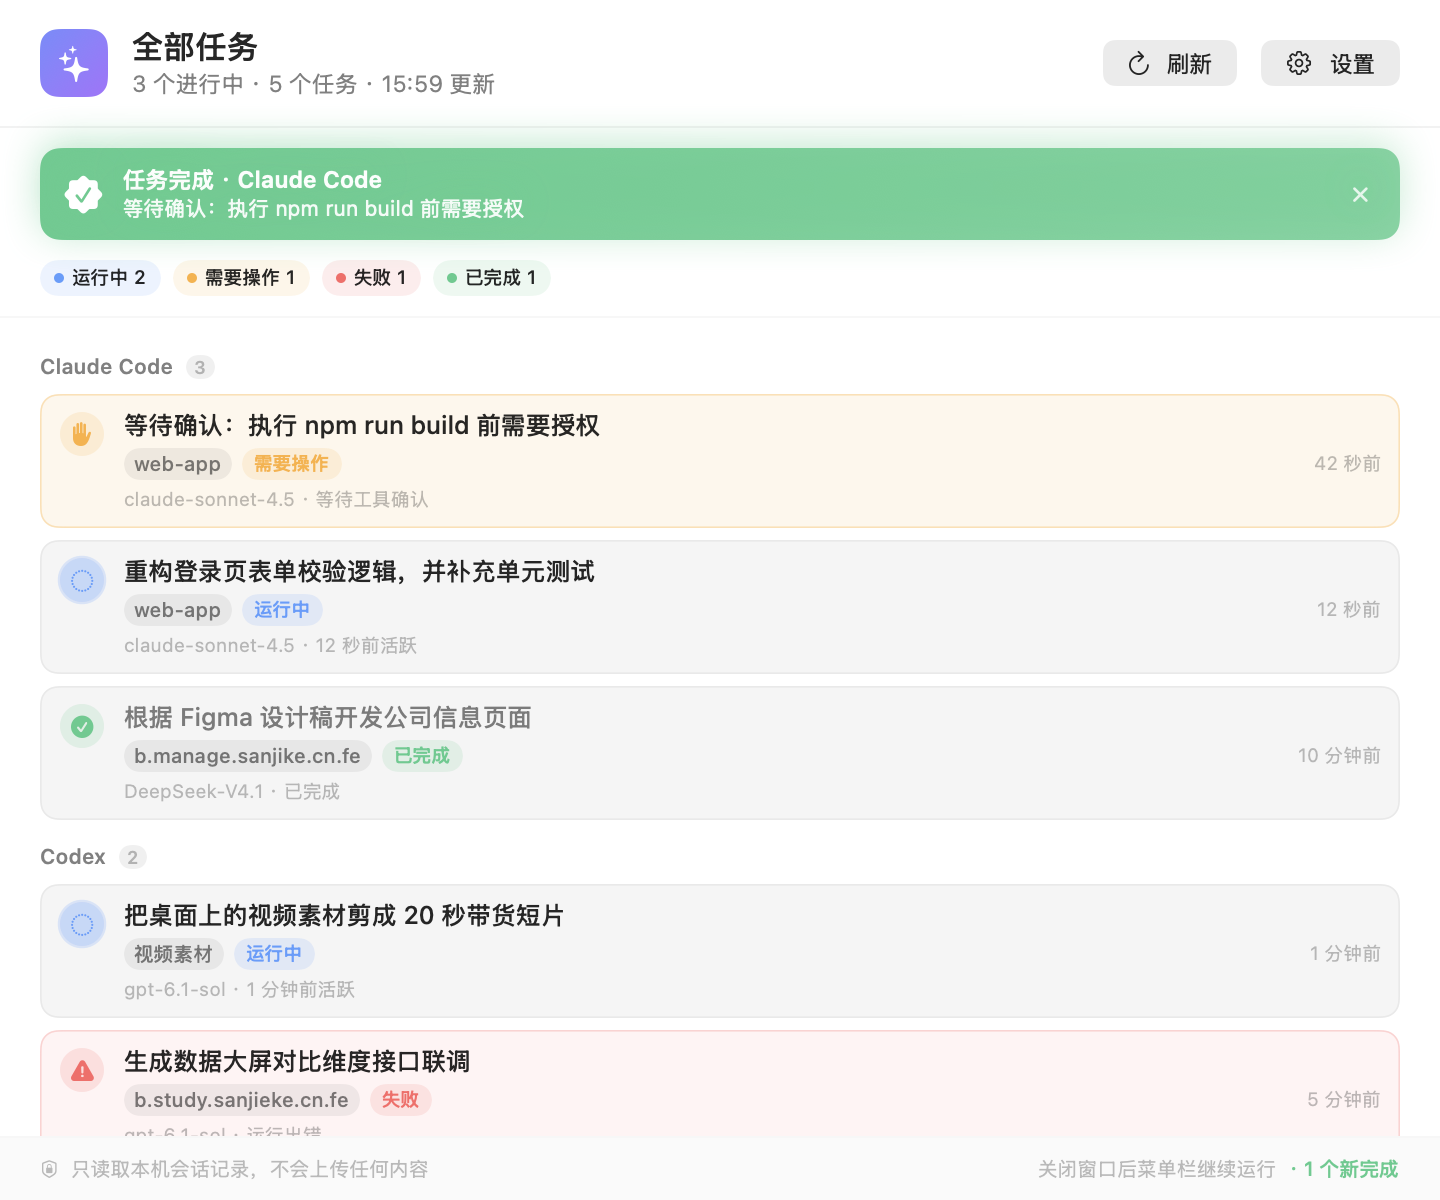
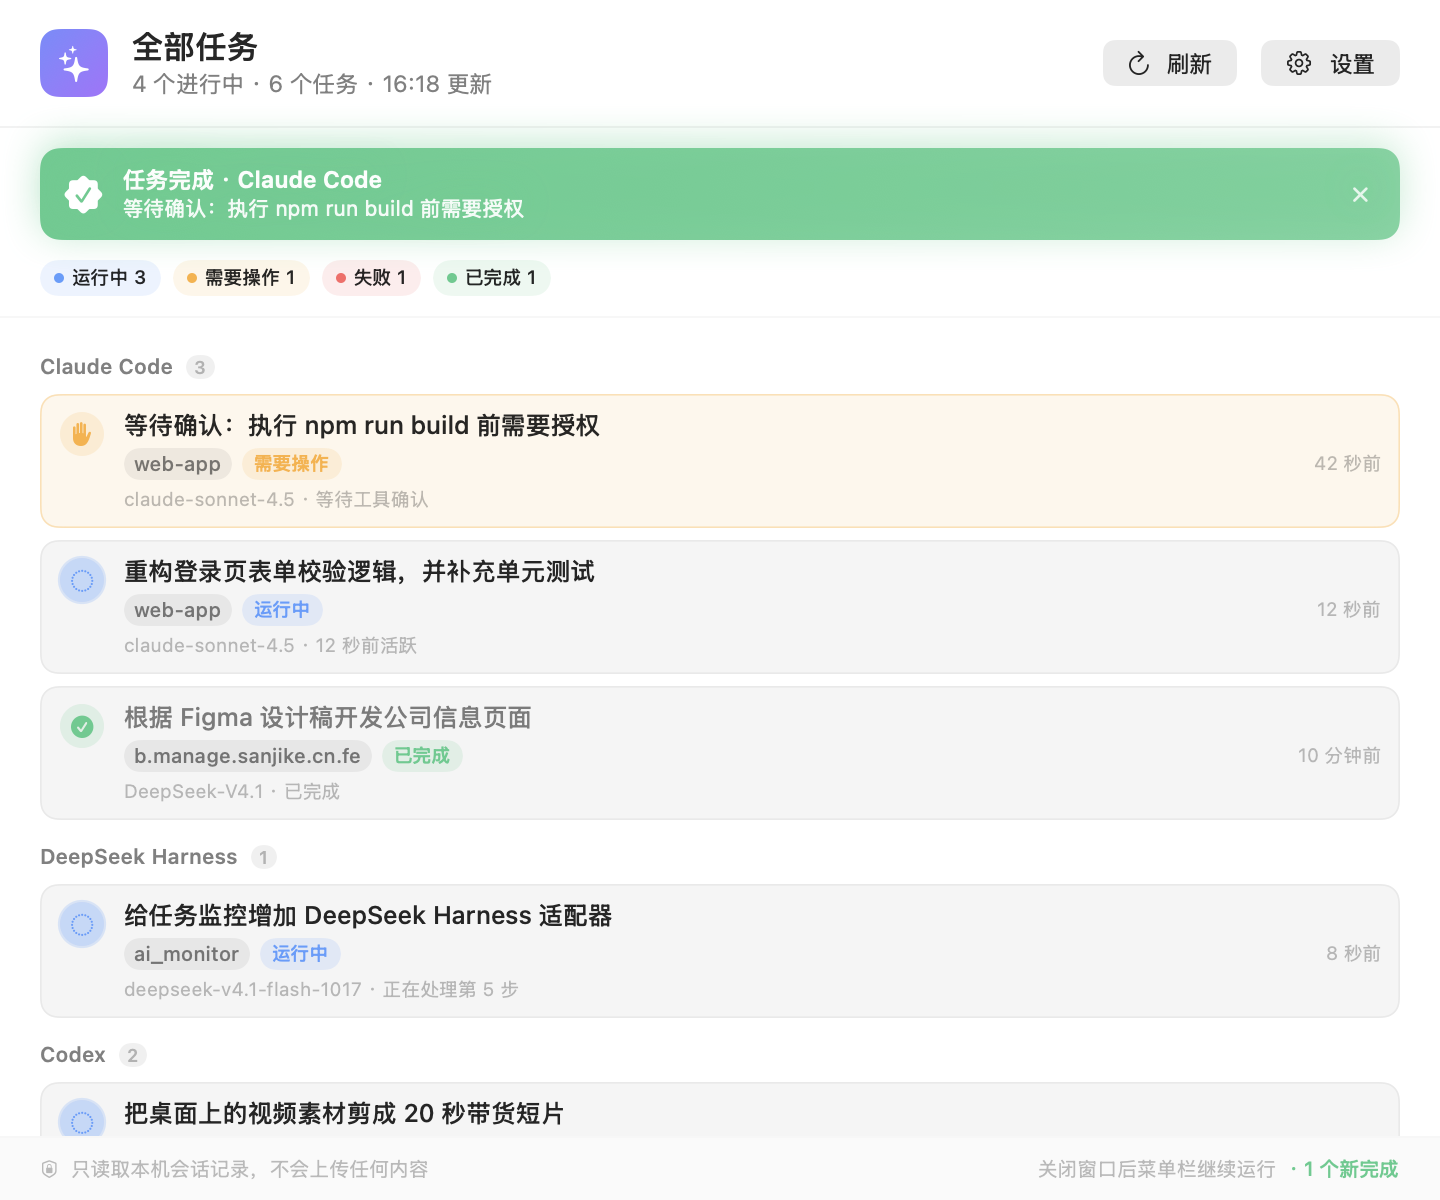
feat: 支持监控 DeepSeek Harness
- 新增 DSHAdapter，读取 ~/.dsh 的 session_projcache 投影缓存
- 识别运行中 / 需要操作 / 已完成 / 失败，标题优先取当前轮次提问
- 首次升级自动把 dsh 加入监控，设置里可随时移除
- 浮窗、菜单栏、主界面接入第三个 AI

diff --git a/Sources/AIMonitor/Adapters/DSHAdapter.swift b/Sources/AIMonitor/Adapters/DSHAdapter.swift
@@ -1,0 +1,189 @@
+import Foundation
+
+/// DeepSeek Harness（dsh）适配器
+///
+/// 数据来自 `~/.dsh/storages/session_projcache/sessions/session-*.json`。
+/// 这是 dsh 自己维护的会话投影缓存（未压缩 JSON），包含标题、当前轮次、
+/// 步骤状态、待回答问题等信息，比解压 `session.v4.jsonl.zstd` 轻量得多。
+enum DSHAdapter {
+
+    private static let activeWindow: TimeInterval = 12 * 60 * 60      // 活跃/未收尾会话最多看 12 小时
+    private static let historyWindow: TimeInterval = 6 * 60 * 60      // 已完成会话保留 6 小时
+    private static let idleWaitingThreshold: TimeInterval = 180       // 超过 3 分钟没有进展 → 需要操作
+
+    private static var cacheDirectory: URL {
+        FileManager.default.homeDirectoryForCurrentUser
+            .appendingPathComponent(".dsh/storages/session_projcache/sessions")
+    }
+
+    static func scan() -> [AITask] {
+        let manager = FileManager.default
+        guard let files = try? manager.contentsOfDirectory(
+            at: cacheDirectory,
+            includingPropertiesForKeys: [.contentModificationDateKey],
+            options: [.skipsHiddenFiles]
+        ) else { return [] }
+
+        let now = Date()
+        var tasks: [AITask] = []
+
+        for url in files where url.pathExtension.lowercased() == "json" {
+            guard let task = parse(url: url, now: now) else { continue }
+            tasks.append(task)
+        }
+
+        // 活跃任务全部保留；已完成的只留最近的几条，避免历史记录刷屏
+        let active = tasks.filter { $0.status.isActive }
+        let history = tasks
+            .filter { !$0.status.isActive }
+            .sorted { $0.updatedAt > $1.updatedAt }
+            .prefix(5)
+
+        return active + history
+    }
+
+    // MARK: - 单个会话
+
+    private static func parse(url: URL, now: Date) -> AITask? {
+        guard let data = try? Data(contentsOf: url),
+              let root = try? JSONSerialization.jsonObject(with: data) as? [String: Any],
+              let record = root["record"] as? [String: Any],
+              let rows = record["rows"] as? [String: Any] else { return nil }
+
+        let identity = record["identity"] as? [String: Any]
+        let cwd = identity?["cwd"] as? String ?? ""
+        let sessionId = url.deletingPathExtension().lastPathComponent
+
+        let title = value(rows, "title") as? String
+        let listMeta = value(rows, "sessionListMetadata") as? [String: Any]
+        let lastPromptAt = double(listMeta?["lastPromptAt"])
+        let outline = value(rows, "turnOutline") as? [String: Any]
+        let turns = outline?["turns"] as? [[String: Any]]
+        let lastTurn = turns?.last
+        let lastPrompt = lastTurn?["prompt"] as? String
+        let lastResponse = lastTurn?["response"] as? String ?? ""
+
+        // 空白会话（只打开过、没提问）不展示
+        let isBlank = listMeta?["blank"] as? Bool ?? false
+        if isBlank, lastPrompt?.isEmpty ?? true { return nil }
+
+        let boundary = value(rows, "turnBoundary") as? [String: Any]
+        let openTurn = int(boundary?["openTurnStartSeq"])
+        let lastTurnNumber = int(boundary?["lastTurn"]) ?? 0
+        let lastBoundary = boundary?["lastStepBoundary"] as? [String: Any]
+        let boundaryKind = lastBoundary?["kind"] as? String
+
+        let stats = value(rows, "sessionStats") as? [String: Any]
+        let openStep = stats?["openStep"] as? [String: Any]
+        let questions = value(rows, "userQuestions") as? [String: Any]
+        let activeQuestions = (questions?["questions"] as? [String: Any])?["active"] as? [Any] ?? []
+
+        let retry = value(rows, "llmRetry") as? [String: Any] ?? [:]
+        let goal = value(rows, "goal") as? [String: Any]
+        let goalFailure = goal?["failure"]
+        let hasGoalFailure = !(goalFailure is NSNull) && goalFailure != nil
+
+        // 最近一次活动时间：轮次开始、步骤开始、最后消息、缓存文件修改时间取最大
+        var activity = fileModificationDate(url) ?? now
+        for candidate in [
+            double(openStep?["startTime"]),
+            double((value(rows, "timeContext") as? [String: Any])?["lastMessageTime"]),
+            lastPromptAt,
+        ].compactMap({ $0 }) {
+            let date = Date(timeIntervalSince1970: candidate / 1000)
+            if date > activity { activity = date }
+        }
+
+        let isOpen = openTurn != nil
+        let age = now.timeIntervalSince(activity)
+
+        // 太旧的会话不再展示
+        if isOpen, age > activeWindow { return nil }
+        if !isOpen, age > historyWindow { return nil }
+
+        let status: TaskStatus
+        let reason: String
+
+        if !activeQuestions.isEmpty {
+            status = .waiting
+            reason = "等待你回答问题"
+        } else if !retry.isEmpty {
+            status = .failed
+            reason = "请求失败，正在重试"
+        } else if hasGoalFailure {
+            status = .failed
+            reason = "执行失败"
+        } else if boundaryKind == "error" || boundaryKind == "aborted" {
+            status = .failed
+            reason = "执行中断"
+        } else if isOpen {
+            if age > idleWaitingThreshold {
+                status = .waiting
+                reason = "等待确认或长时间无响应"
+            } else {
+                status = .running
+                reason = openStep == nil ? "正在执行" : "正在处理第 \(int(openStep?["step"]) ?? 0) 步"
+            }
+        } else if lastTurnNumber > 0 {
+            status = .completed
+            reason = "已完成"
+        } else {
+            return nil
+        }
+
+        // 进行中的会话展示“这一轮在做什么”；已结束的会话用 dsh 生成的会话标题更准确
+        let displayTitle: String
+        let promptTitle = lastPrompt?.trimmingCharacters(in: .whitespacesAndNewlines) ?? ""
+        if isOpen, !promptTitle.isEmpty {
+            displayTitle = AITask.truncate(promptTitle, 90)
+        } else if let title, !title.isEmpty {
+            displayTitle = title
+        } else if !promptTitle.isEmpty {
+            displayTitle = AITask.truncate(promptTitle, 90)
+        } else if !lastResponse.isEmpty {
+            displayTitle = AITask.truncate(lastResponse, 90)
+        } else {
+            displayTitle = sessionId
+        }
+
+        let modelSelection = value(rows, "modelSelection") as? [String: Any]
+        let lastUsed = modelSelection?["lastUsed"] as? [String: Any]
+        let model = lastUsed?["model"] as? String
+        let detail = [model, reason].compactMap { $0 }.joined(separator: " · ")
+
+        return AITask(
+            id: "dsh:\(sessionId)",
+            provider: "DeepSeek Harness",
+            title: displayTitle,
+            project: cwd,
+            status: status,
+            detail: detail,
+            updatedAt: activity,
+            pid: nil,
+            sourcePath: url.path,
+            isHistorical: status == .completed
+        )
+    }
+
+    // MARK: - JSON 取值
+
+    private static func value(_ rows: [String: Any], _ key: String) -> Any? {
+        guard let row = rows[key] as? [String: Any] else { return nil }
+        let val = row["val"]
+        return val is NSNull ? nil : val
+    }
+
+    private static func double(_ any: Any?) -> Double? {
+        guard let number = any as? NSNumber else { return nil }
+        return number.doubleValue
+    }
+
+    private static func int(_ any: Any?) -> Int? {
+        guard let number = any as? NSNumber else { return nil }
+        return number.intValue
+    }
+
+    private static func fileModificationDate(_ url: URL) -> Date? {
+        (try? url.resourceValues(forKeys: [.contentModificationDateKey]))?.contentModificationDate
+    }
+}

diff --git a/Sources/AIMonitor/AIProviderCatalog.swift b/Sources/AIMonitor/AIProviderCatalog.swift
@@ -31,6 +31,7 @@ enum AIProviderCatalog {
         switch id {
         case "claude": return "Claude Code"
         case "codex": return "Codex"
+        case "dsh": return "DeepSeek Harness"
         default:
             if id.hasPrefix("cli:") {
                 let match = String(id.dropFirst(4))
@@ -47,8 +48,9 @@ enum AIProviderCatalog {
     static func sortIndex(for id: String) -> Int {
         if id == "claude" { return 0 }
         if id == "codex" { return 1 }
-        if id.hasPrefix("cli:") { return 2 }
-        return 3
+        if id == "dsh" { return 2 }
+        if id.hasPrefix("cli:") { return 3 }
+        return 4
     }
 
     /// 扫描本机已安装 / 正在运行的 AI 工具
@@ -83,7 +85,22 @@ enum AIProviderCatalog {
             supported: codexAvailable
         ))
 
-        // 3. 其他 AI CLI
+        // 3. DeepSeek Harness（dsh）
+        let dshCache = URL(fileURLWithPath: NSHomeDirectory())
+            .appendingPathComponent(".dsh/storages/session_projcache/sessions")
+        let dshAvailable = FileManager.default.fileExists(atPath: dshCache.path)
+        result.append(DetectedAI(
+            id: "dsh",
+            name: "DeepSeek Harness",
+            detail: dshAvailable
+                ? "读取 ~/.dsh 会话缓存，可识别运行 / 完成 / 等待确认"
+                : "未检测到 ~/.dsh 会话目录",
+            category: .agent,
+            available: dshAvailable,
+            supported: dshAvailable
+        ))
+
+        // 4. 其他 AI CLI
         let runningMatches = Set(
             ProcessProbe.aiCLIProcesses(excluding: []).compactMap { ProcessProbe.match(for: $0)?.match }
         )
@@ -103,7 +120,7 @@ enum AIProviderCatalog {
             ))
         }
 
-        // 4. 桌面应用（只做安装检测，避免造成“能监控任务”的误解）
+        // 5. 桌面应用（只做安装检测，避免造成“能监控任务”的误解）
         let appCandidates: [(String, String, String)] = [
             ("chatgpt", "ChatGPT", "/Applications/ChatGPT.app"),
             ("claude-app", "Claude", "/Applications/Claude.app"),

diff --git a/Sources/AIMonitor/AppConfig.swift b/Sources/AIMonitor/AppConfig.swift
@@ -10,6 +10,7 @@ final class AppConfig: ObservableObject {
         static let enabled = "enabledProviders"
         static let onboarded = "hasOnboarded"
         static let muted = "notificationsMuted"
+        static let dshMigrated = "dshAutoEnabledV1"
     }
 
     private let defaults = UserDefaults.standard
@@ -19,7 +20,7 @@ final class AppConfig: ObservableObject {
     @Published var notificationsMuted: Bool
 
     /// 首次运行默认勾选两个支持任务级监控的 AI
-    static let defaultProviders: Set<String> = ["claude", "codex"]
+    static let defaultProviders: Set<String> = ["claude", "codex", "dsh"]
 
     private init() {
         if let stored = defaults.array(forKey: Key.enabled) as? [String] {
@@ -29,6 +30,17 @@ final class AppConfig: ObservableObject {
         }
         hasOnboarded = defaults.bool(forKey: Key.onboarded)
         notificationsMuted = defaults.bool(forKey: Key.muted)
+
+        // 新增 DeepSeek Harness 支持时，对已初始化的用户自动纳入监控（只做一次）
+        if !defaults.bool(forKey: Key.dshMigrated) {
+            let dshCache = FileManager.default.homeDirectoryForCurrentUser
+                .appendingPathComponent(".dsh/storages/session_projcache/sessions")
+            if FileManager.default.fileExists(atPath: dshCache.path) {
+                enabledProviders.insert("dsh")
+                saveEnabled()
+            }
+            defaults.set(true, forKey: Key.dshMigrated)
+        }
     }
 
     func isEnabled(_ id: String) -> Bool { enabledProviders.contains(id) }

diff --git a/Sources/AIMonitor/MonitorEngine.swift b/Sources/AIMonitor/MonitorEngine.swift
@@ -54,6 +54,7 @@ final class MonitorEngine {
         var tasks: [AITask] = []
         if enabledProviders.contains("claude") { tasks += claudeAdapter.scan() }
         if enabledProviders.contains("codex") { tasks += codexAdapter.scan() }
+        if enabledProviders.contains("dsh") { tasks += DSHAdapter.scan() }
 
         let cliMatches = Set(enabledProviders.compactMap { id -> String? in
             id.hasPrefix("cli:") ? String(id.dropFirst(4)) : nil
@@ -86,7 +87,7 @@ final class MonitorEngine {
 
     /// headless 模式（--dump）使用，不启动定时器
     static func scanAll() -> [AITask] {
-        var tasks = ClaudeAdapter().scan() + CodexAdapter().scan()
+        var tasks = ClaudeAdapter().scan() + CodexAdapter().scan() + DSHAdapter.scan()
         let represented = Set(tasks.filter { $0.status.isActive }.map { $0.provider })
         let excludedPIDs = Set(tasks.compactMap { $0.pid })
         let allCLI = Set(ProcessProbe.knownCLI.map { $0.match })

diff --git a/Sources/AIMonitor/AppDelegate.swift b/Sources/AIMonitor/AppDelegate.swift
@@ -206,6 +206,11 @@ final class AppDelegate: NSObject, NSApplicationDelegate {
                    project: "/Users/haobosen/projects/web-app", status: .running,
                    detail: "claude-sonnet-4.5 · 12 秒前活跃", updatedAt: now.addingTimeInterval(-12),
                    pid: 4321, sourcePath: nil),
+            AITask(id: "demo:dsh", provider: "DeepSeek Harness",
+                   title: "给任务监控增加 DeepSeek Harness 适配器",
+                   project: "/Users/haobosen/ai_monitor", status: .running,
+                   detail: "deepseek-v4.1-flash-1017 · 正在处理第 5 步",
+                   updatedAt: now.addingTimeInterval(-8), pid: nil, sourcePath: nil),
             AITask(id: "demo:running2", provider: "Codex",
                    title: "把桌面上的视频素材剪成 20 秒带货短片",
                    project: "/Users/haobosen/Desktop/视频素材", status: .running,
